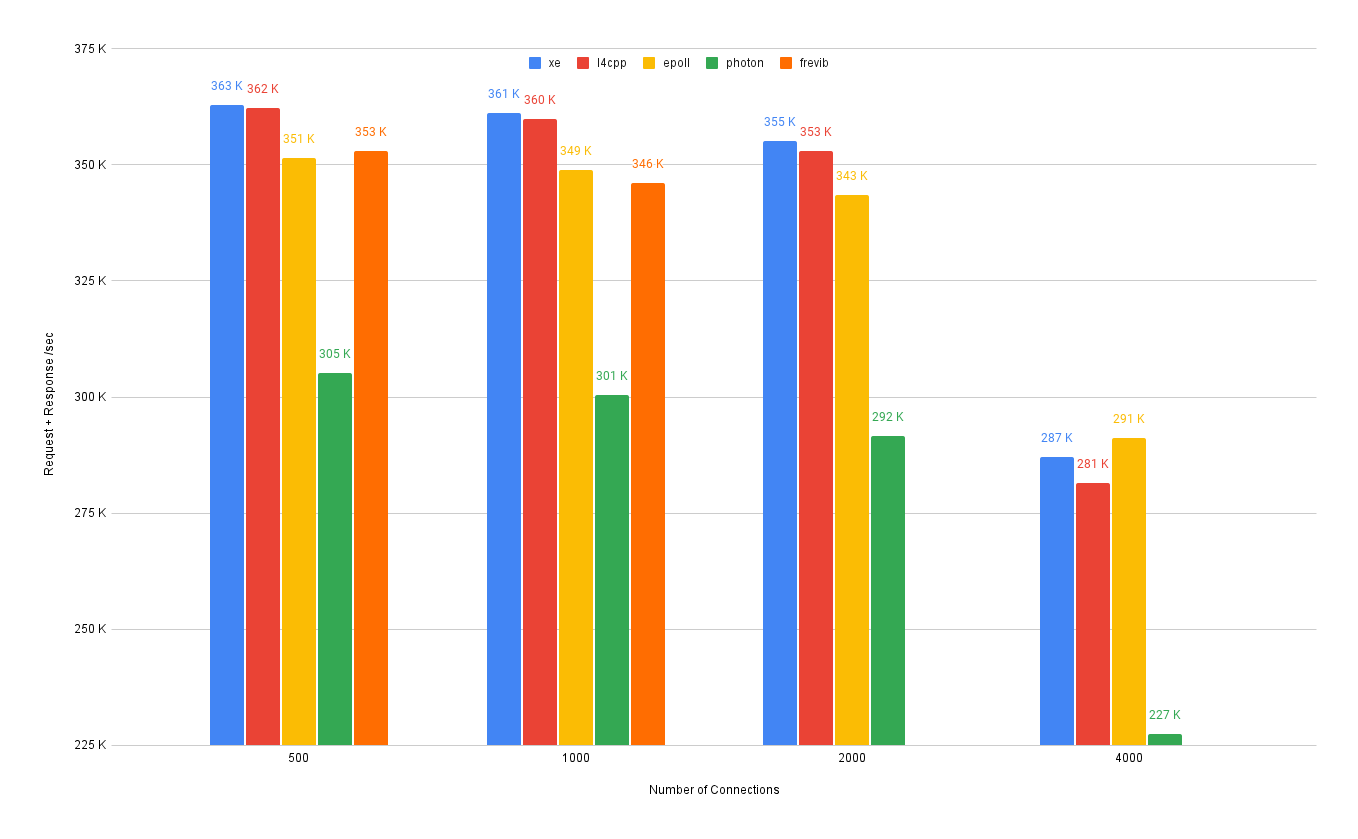
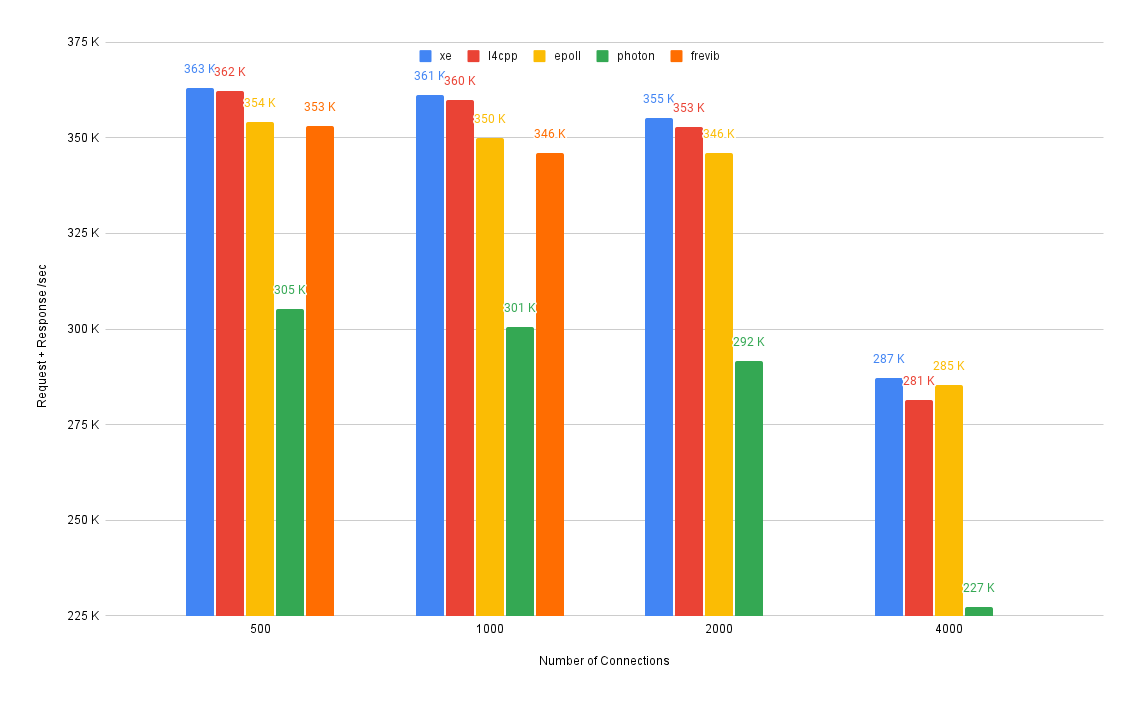
fix epoll benchmarks

diff --git a/benchmarks/benchmarks.md b/benchmarks/benchmarks.md
@@ -21,13 +21,11 @@ Each echo bench thread uses epoll
 ## Notes
 - xe is compiled without -flto
 
-- xe, l4cpp, and photon use 512 byte buffers
-- xe and photon align buffers to 512 byte boundary
+- xe, l4cpp, photon, and epoll use 512 byte buffers
+- xe, photon, and epoll align buffers to 512 byte boundary
 
 - frevib uses **io_uring_prep_provide_buffers**
 - frevib did not complete for 2000 and 4000 connections (sqring size too small)
 
 - xe uses a submission ring size of 256 (faster than 512)
 - l4cpp uses a submission ring size of 512 (which is slower when connections > 1000)
-
-- epoll has the send immediately following the recv better utilizing cache leading to an overtake in performance at 4000 connections, but io_uring's **IORING_OP_POLL_ADD** + recvsend is faster than epoll at 4000+ connections
